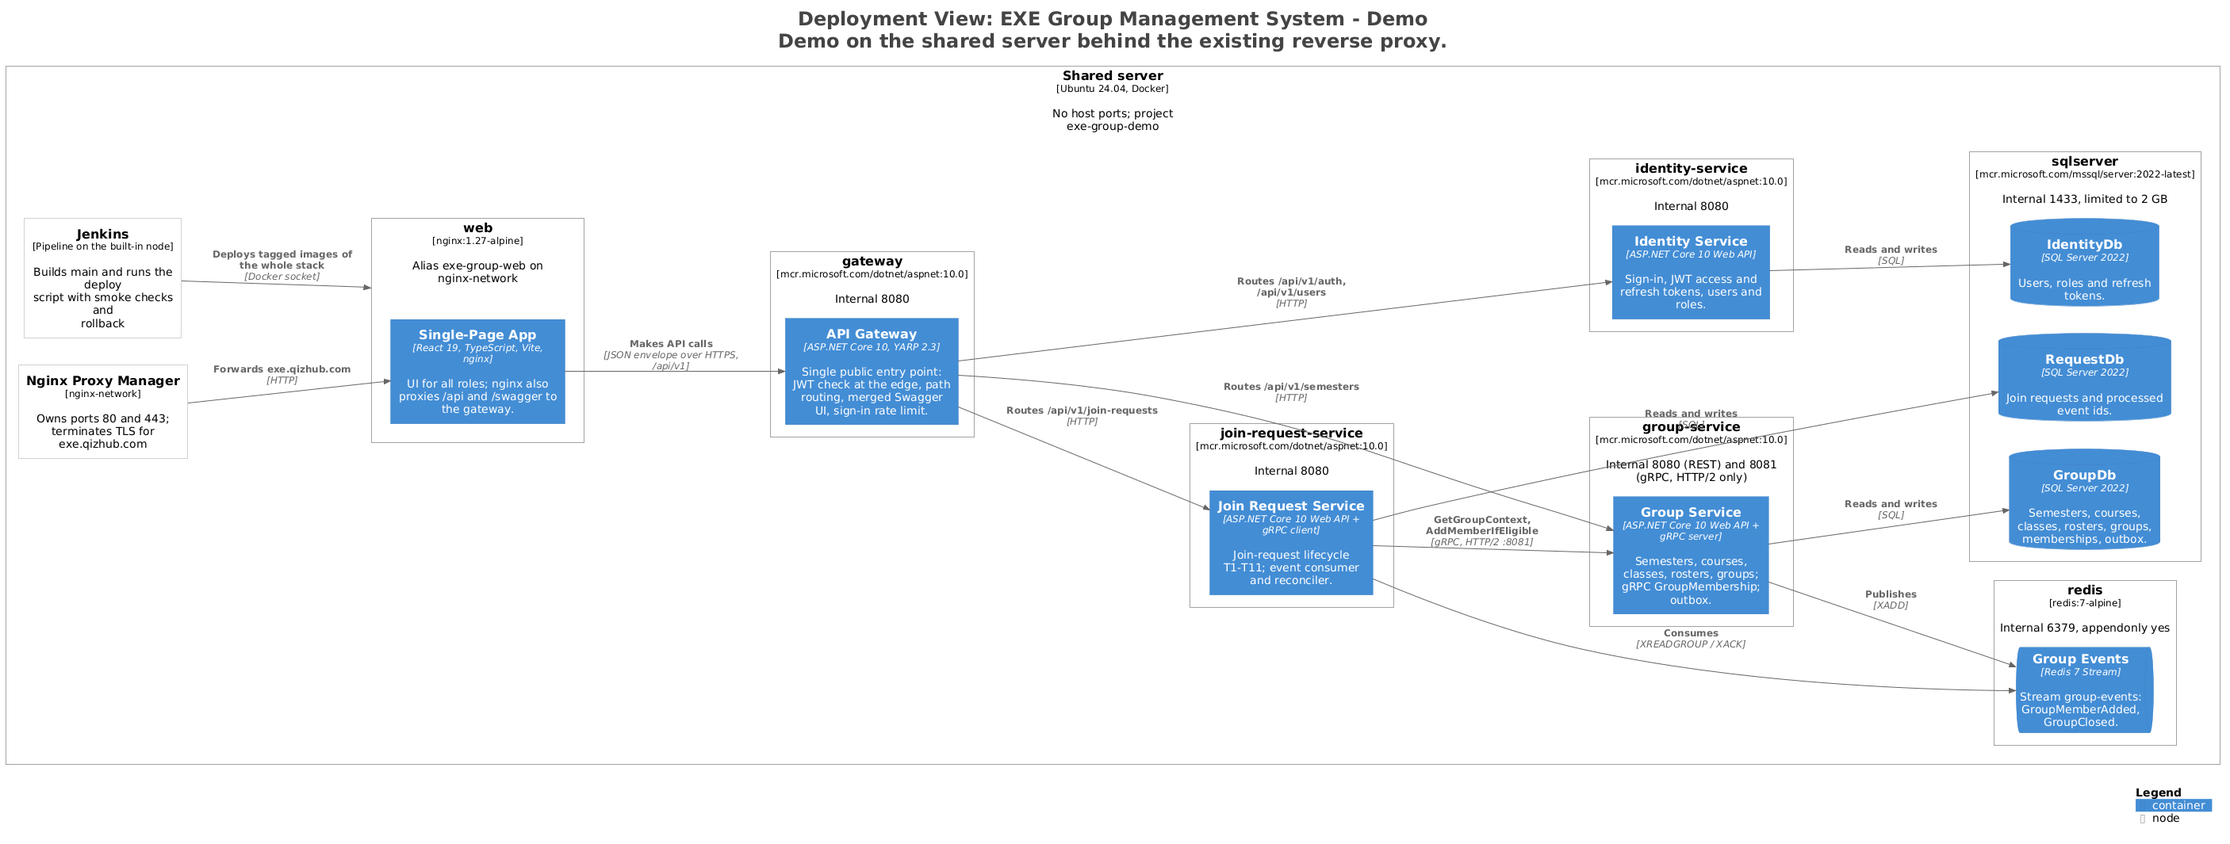
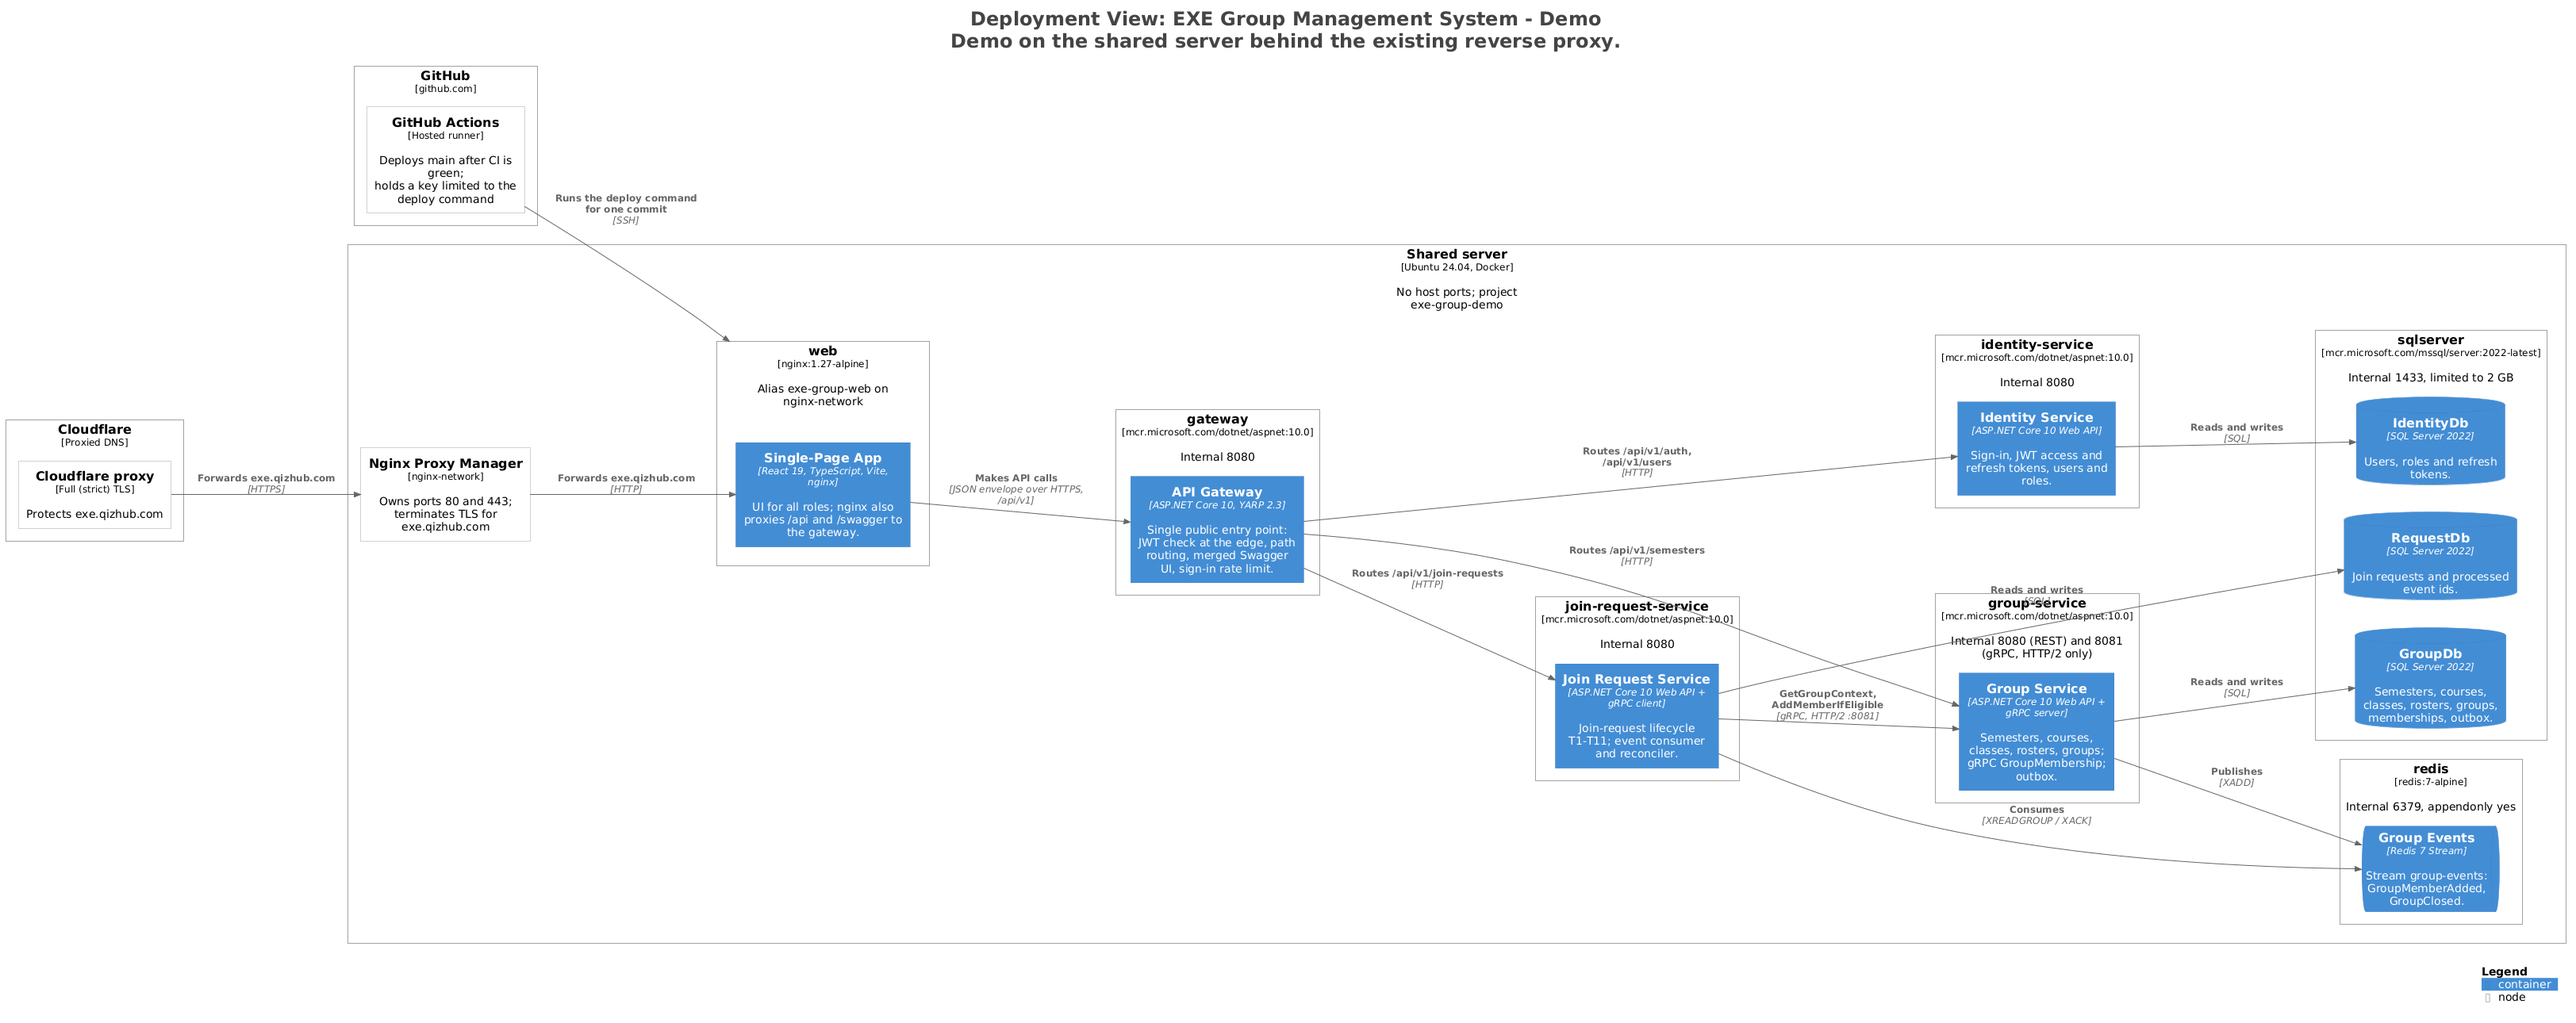
ci: deploy the demo from GitHub Actions instead of Jenkins

diff --git a/README.md b/README.md
@@ -188,17 +188,25 @@ Notes:
 
 ### Demo on the shared server
 
-Merging into `main` redeploys the demo at `https://exe.qizhub.com`. Jenkins polls `main` every 5 minutes (`Jenkinsfile`),
-builds images tagged `jenkins-<build>` and runs `scripts/demo-deploy.sh`, which starts the stack, runs the smoke checks
-and returns to the last good tag if anything fails.
+Merging into `main` redeploys the demo at `https://exe.qizhub.com`. After `ci` turns green on `main`, the `deploy-demo`
+workflow asks the server to deploy that commit. The server builds it, runs the smoke checks and returns to the last good
+version if anything fails. Follow it in the **Actions** tab; a failed deployment never blocks pull requests.
 
 - `docker-compose.demo.yml` is an overlay on `docker-compose.yml`: project `exe-group-demo`, Production, migrations on
   start-up, no host ports, memory and CPU limits. `node scripts/check-demo-compose.mjs` verifies this in CI.
-- The existing Nginx Proxy Manager forwards the domain to `exe-group-web:80` over the shared `nginx-network`. Only the
-  `web` container joins that network. Keep the DNS record DNS-only so the client address reaches the sign-in rate limit.
-- Secrets live on the server in `/var/jenkins_home/exe-group-demo/demo.env` (`SA_PASSWORD`, `JWT_SIGNING_KEY`,
-  `JWT_ISSUER`, `JWT_AUDIENCE`, `ASPNETCORE_ENVIRONMENT=Production`), never in the repository.
+- Traffic goes through Cloudflare and the server's reverse proxy to the `web` container, the only container on the shared
+  network.
+- The deploy key can only run `scripts/demo-deploy-entry.sh` for a commit that is on `main`. It lives in the `demo`
+  GitHub environment, which only `main` can use, so pull requests cannot read it.
+- Secrets stay in `demo.env` on the server (`SA_PASSWORD`, `JWT_SIGNING_KEY`, `JWT_ISSUER`, `JWT_AUDIENCE`,
+  `ASPNETCORE_ENVIRONMENT=Production`), never in the repository. Do not store real student data on this demo.
 - The server hosts other projects: never run `docker system prune` or `docker compose down -v` there.
+
+### Merging into main
+
+`main` accepts pull requests only. The checks `dotnet`, `web`, `docker` and `architecture` must be green on a branch that is
+up to date with `main`; nobody can skip them. Use **Update branch** when asked, and **Enable auto-merge** to let GitHub
+squash-merge once everything passes.
 
 ## 6. Demo script (end-to-end)
 
